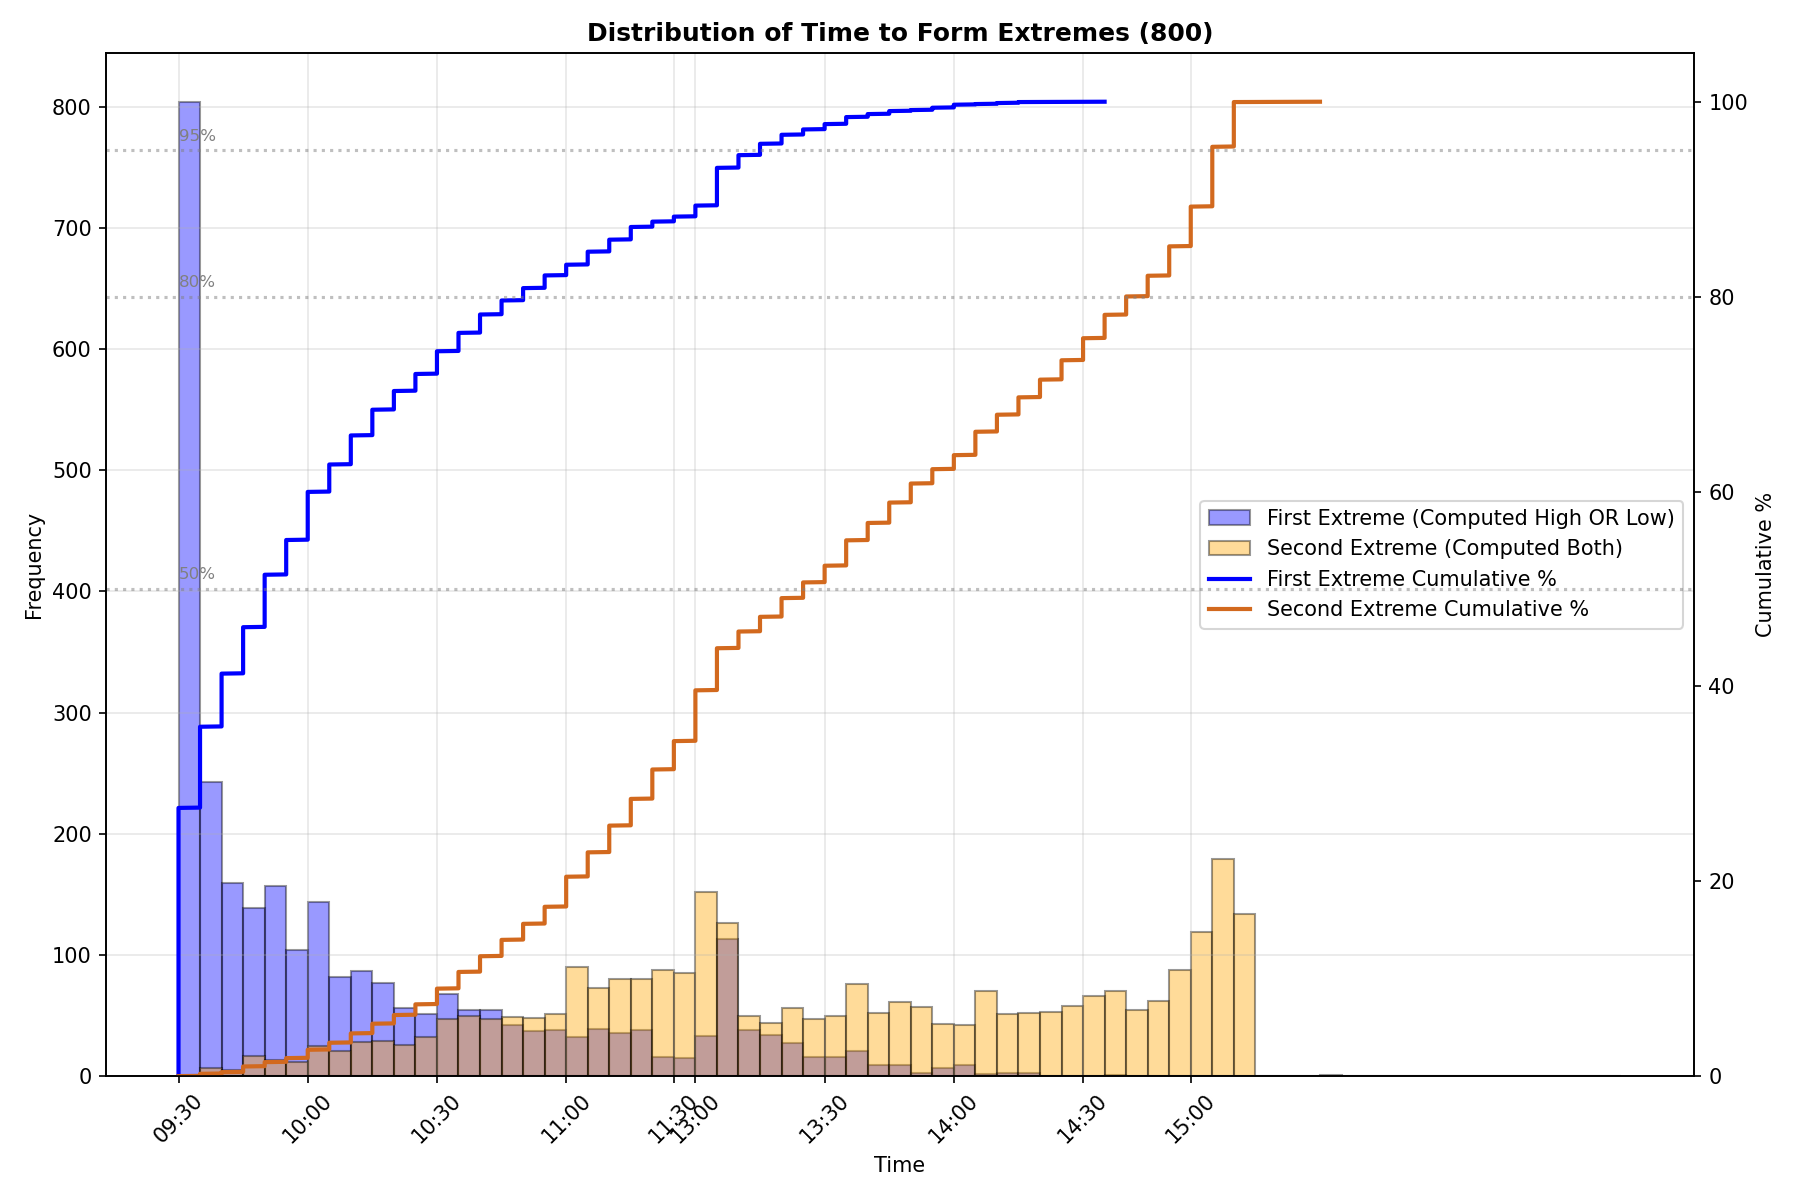
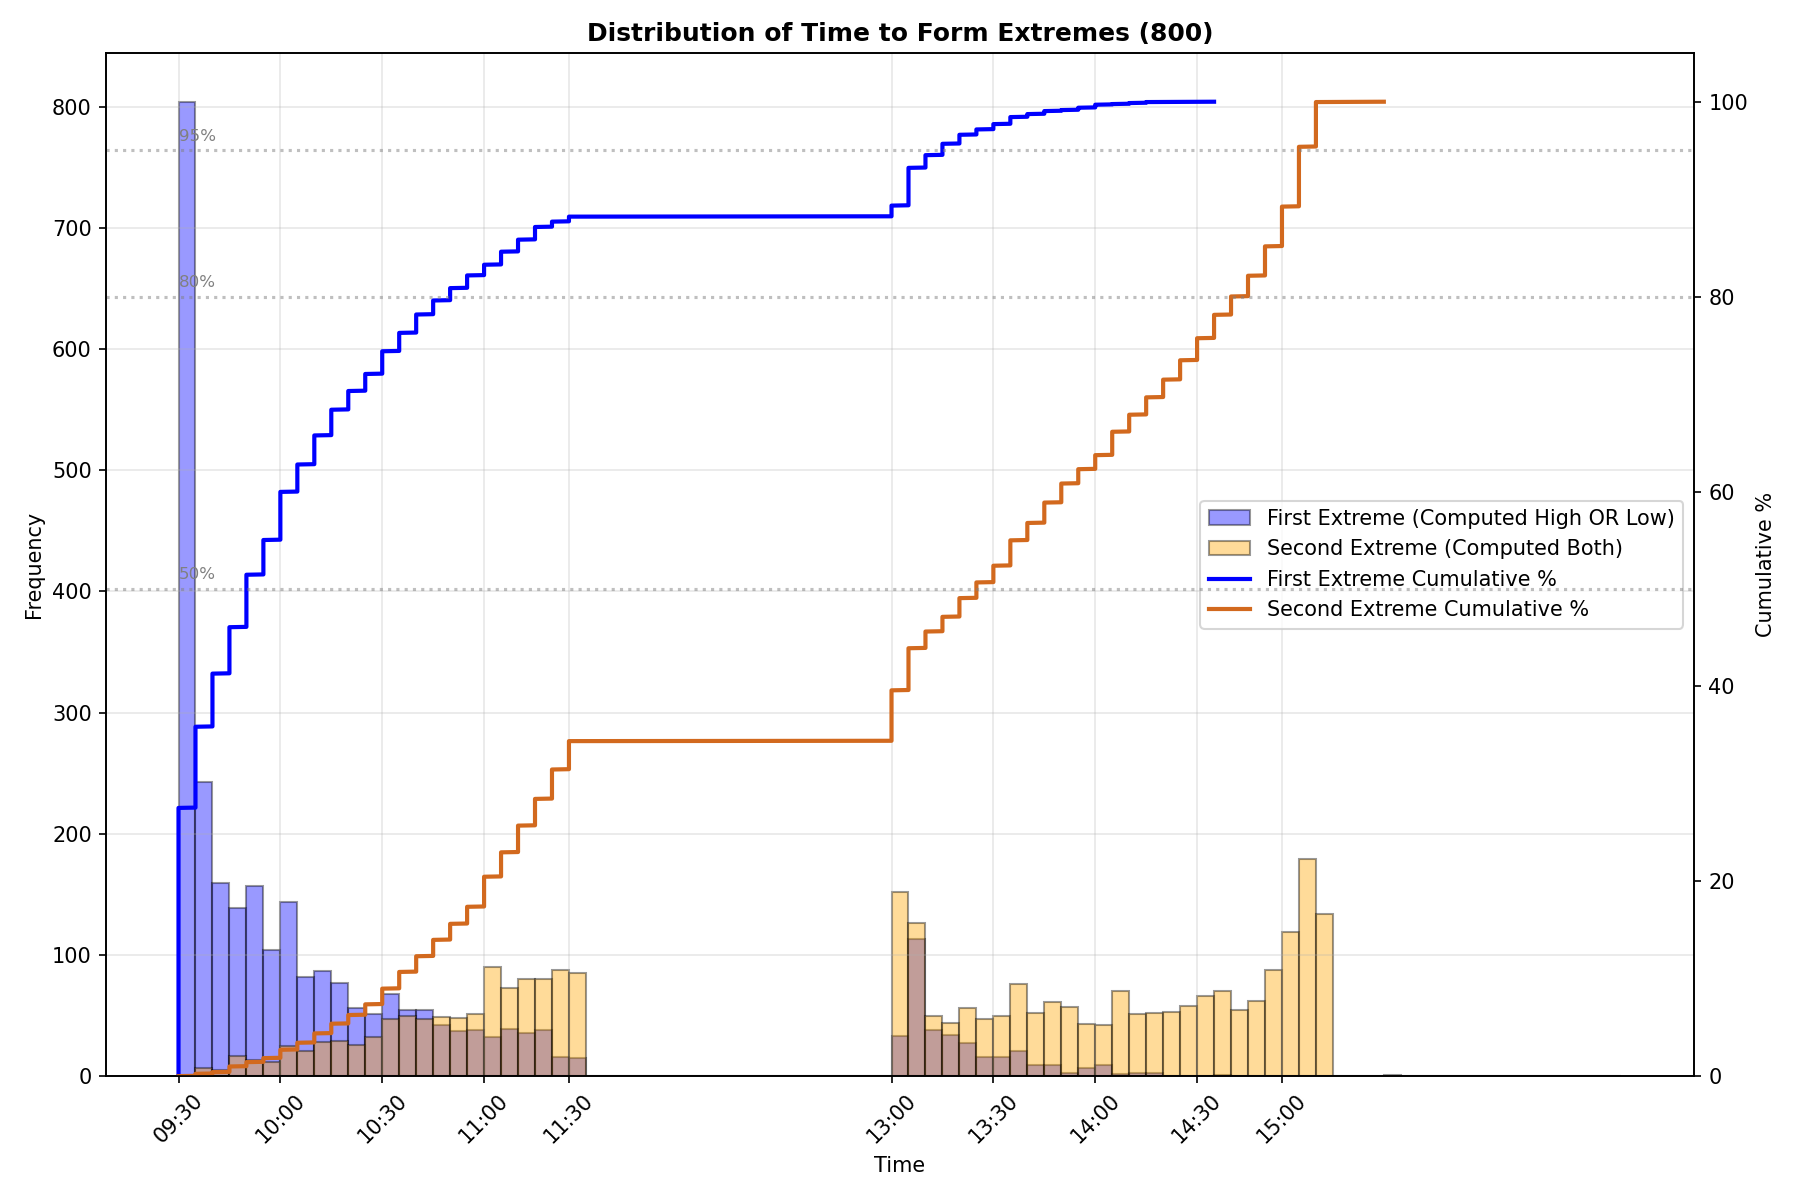
Process

diff --git a/generate_800_stats.py b/generate_800_stats.py
@@ -96,18 +96,47 @@ def plot_histogram_with_cdf(data, bins, range_min, range_max, color, title, xlab
     """Helper to plot histogram with cumulative distribution line."""
     fig, ax1 = plt.subplots(figsize=(12, 8))
     
+    if is_time:
+        gap_bars = 18
+        data = np.where(np.array(data) > 24, np.array(data) + gap_bars, np.array(data))
+        bins += gap_bars
+        range_max += gap_bars
+
     # Histogram
     counts, bins_edges, _ = ax1.hist(data, bins=bins, range=(range_min, range_max), 
                            edgecolor='black', alpha=0.6, color=color, label='Frequency')
     
     if is_time:
-        ticks = [1, 7, 13, 19, 24, 25, 31, 37, 43, 48]
+        ticks = [1, 7, 13, 19, 24, 43, 49, 55, 61, 66]
         labels = ["09:30", "10:00", "10:30", "11:00", "11:30", "13:00", "13:30", "14:00", "14:30", "15:00"]
         ax1.set_xticks(ticks)
         ax1.set_xticklabels(labels, rotation=45)
         ax1.set_xlabel("Time")
     else:
         ax1.set_xlabel(xlabel)
+
+    if 'Gap' in title:
+        stats_text = (
+            f"Total Days: {len(data)}\n"
+            f"Mean Gap: {np.mean(data):.3f}%\n"
+            f"Std Dev: {np.std(data):.3f}%\n"
+            f"Gap = 0: {np.mean(np.array(data) == 0)*100:.1f}%\n"
+            f"Gap > 0: {np.mean(np.array(data) > 0)*100:.1f}%\n"
+            f"Gap < 0: {np.mean(np.array(data) < 0)*100:.1f}%"
+        )
+        up_gaps = [d for d in data if d > 0]
+        dn_gaps = [d for d in data if d < 0]
+        if up_gaps: stats_text += f"\nAvg Up: {np.mean(up_gaps):.3f}%"
+        if dn_gaps: stats_text += f"\nAvg Down: {np.mean(dn_gaps):.3f}%"
+        
+        props = dict(boxstyle='round', facecolor='wheat', alpha=0.9)
+        ax1.text(0.02, 0.98, stats_text, transform=ax1.transAxes, fontsize=10,
+                verticalalignment='top', bbox=props)
+        
+        sorted_counts = np.sort(counts)
+        if len(sorted_counts) > 1 and sorted_counts[-1] > sorted_counts[-2] * 3:
+            y_max = sorted_counts[-2] * 2.0
+            ax1.set_ylim(0, max(y_max, 10))
 
     ax1.set_ylabel('Frequency', color=color)
     ax1.tick_params(axis='y', labelcolor=color)
@@ -167,15 +196,20 @@ def plot_results(results, daily_stats_df, df, out_dir):
     first_extreme = daily_stats_df[['high_bar', 'low_bar']].min(axis=1)
     second_extreme = daily_stats_df[['high_bar', 'low_bar']].max(axis=1)
     
-    ax1.hist(first_extreme, bins=max_bars, range=(1, max_bars+1), edgecolor='black', alpha=0.4, 
+    gap_bars = 18
+    first_extreme = np.where(first_extreme > 24, first_extreme + gap_bars, first_extreme)
+    second_extreme = np.where(second_extreme > 24, second_extreme + gap_bars, second_extreme)
+    max_bins = max_bars + gap_bars
+    
+    ax1.hist(first_extreme, bins=max_bins, range=(1, max_bins+1), edgecolor='black', alpha=0.4, 
              color='blue', label='First Extreme (Computed High OR Low)')
-    ax1.hist(second_extreme, bins=max_bars, range=(1, max_bars+1), edgecolor='black', alpha=0.4, 
+    ax1.hist(second_extreme, bins=max_bins, range=(1, max_bins+1), edgecolor='black', alpha=0.4, 
              color='orange', label='Second Extreme (Computed Both)')
     ax1.set_ylabel('Frequency')
     ax1.grid(alpha=0.3)
 
     # Create time labels for the x-axis
-    ticks = [1, 7, 13, 19, 24, 25, 31, 37, 43, 48]
+    ticks = [1, 7, 13, 19, 24, 43, 49, 55, 61, 66]
     labels = ["09:30", "10:00", "10:30", "11:00", "11:30", "13:00", "13:30", "14:00", "14:30", "15:00"]
     ax1.set_xticks(ticks)
     ax1.set_xticklabels(labels, rotation=45)
@@ -225,11 +259,76 @@ def plot_results(results, daily_stats_df, df, out_dir):
     print(f"📊 Plot saved as '{filepath}'")
     plt.close()
     
-    # 5. Opening Gap Distribution
+    # 5. Opening Gap Distribution (custom: clip outliers, fine-grained bins)
     gaps = daily_stats_df['gap_pct'].dropna()
-    plot_histogram_with_cdf(gaps, 50, -5, 5, 'purple', 
-                          'Opening Gap Distribution (800)', 
-                          'Gap %', 'gap_dist.png', out_dir)
+    gap_lo, gap_hi = -5.0, 5.0
+    bin_size = 0.25
+    bin_edges = np.arange(gap_lo, gap_hi + bin_size, bin_size)
+
+    # Clip outliers into the boundary bins
+    gaps_clipped = np.clip(gaps, gap_lo + 1e-9, gap_hi - 1e-9)
+
+    n_below = (gaps < gap_lo).sum()
+    n_above = (gaps > gap_hi).sum()
+
+    fig_g, ax_g1 = plt.subplots(figsize=(12, 8))
+    counts_g, _, patches = ax_g1.hist(gaps_clipped, bins=bin_edges,
+                                       edgecolor='black', alpha=0.6, color='purple', label='Frequency')
+
+    # Label the first and last bar as outlier bins
+    if n_below > 0:
+        patches[0].set_facecolor('#9b59b6')
+        ax_g1.text(bin_edges[0] + bin_size/2, counts_g[0] + 1, f'< {gap_lo:.0f}%\n(n={n_below})',
+                   ha='center', va='bottom', fontsize=8, color='darkviolet', fontweight='bold')
+    if n_above > 0:
+        patches[-1].set_facecolor('#9b59b6')
+        ax_g1.text(bin_edges[-2] + bin_size/2, counts_g[-1] + 1, f'> {gap_hi:.0f}%\n(n={n_above})',
+                   ha='center', va='bottom', fontsize=8, color='darkviolet', fontweight='bold')
+
+    # Auto-trim x-axis to actual data extent with some padding
+    data_min = max(gaps.quantile(0.001), gap_lo)
+    data_max = min(gaps.quantile(0.999), gap_hi)
+    ax_g1.set_xlim(data_min - bin_size, data_max + bin_size)
+
+    ax_g1.set_xlabel('Gap %')
+    ax_g1.set_ylabel('Frequency', color='purple')
+    ax_g1.tick_params(axis='y', labelcolor='purple')
+    ax_g1.grid(alpha=0.3)
+
+    # Stats annotation
+    up_gaps = gaps[gaps > 0]
+    dn_gaps = gaps[gaps < 0]
+    stats_text = (
+        f"Total Days: {len(gaps)}\n"
+        f"Mean: {gaps.mean():.3f}%\n"
+        f"Std Dev: {gaps.std():.3f}%\n"
+        f"Median: {gaps.median():.3f}%\n"
+        f"Gap up: {(gaps > 0).mean()*100:.1f}%  Avg: {up_gaps.mean():.3f}%\n"
+        f"Gap dn: {(gaps < 0).mean()*100:.1f}%  Avg: {dn_gaps.mean():.3f}%\n"
+        f"Flat:   {(gaps == 0).mean()*100:.1f}%"
+    )
+    ax_g1.text(0.02, 0.98, stats_text, transform=ax_g1.transAxes, fontsize=9,
+               verticalalignment='top', bbox=dict(boxstyle='round', facecolor='wheat', alpha=0.9))
+
+    # CDF on twin axis
+    ax_g2 = ax_g1.twinx()
+    sorted_gaps = np.sort(gaps_clipped)
+    yvals_g = np.arange(len(sorted_gaps)) / float(len(sorted_gaps) - 1) * 100
+    ax_g2.plot(sorted_gaps, yvals_g, color='black', linewidth=2, label='Cumulative %')
+    ax_g2.set_ylabel('Cumulative %', color='black')
+    ax_g2.set_ylim(0, 105)
+    for pct in [50, 80, 95]:
+        ax_g2.axhline(y=pct, color='gray', linestyle=':', alpha=0.5)
+
+    plt.title('Opening Gap Distribution (800)', fontweight='bold')
+    lines1, labels1 = ax_g1.get_legend_handles_labels()
+    lines2, labels2 = ax_g2.get_legend_handles_labels()
+    ax_g1.legend(lines1 + lines2, labels1 + labels2, loc='upper right')
+    plt.tight_layout()
+    filepath_g = os.path.join(out_dir, 'gap_dist.png')
+    plt.savefig(filepath_g, dpi=150)
+    print(f"📊 Plot saved as '{filepath_g}'")
+    plt.close()
     
     # 6. Close Location in Range
     close_loc = daily_stats_df['close_in_range'].dropna() * 100
